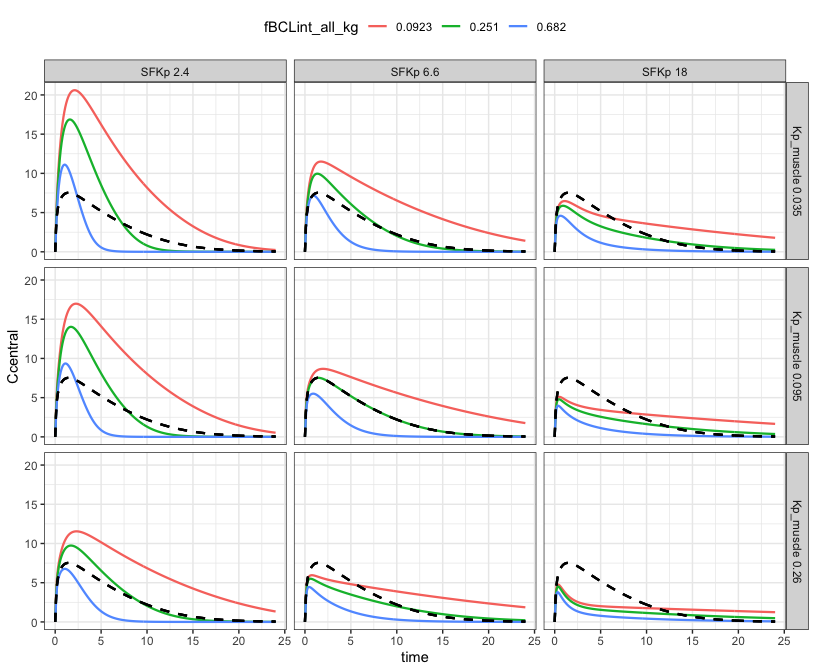
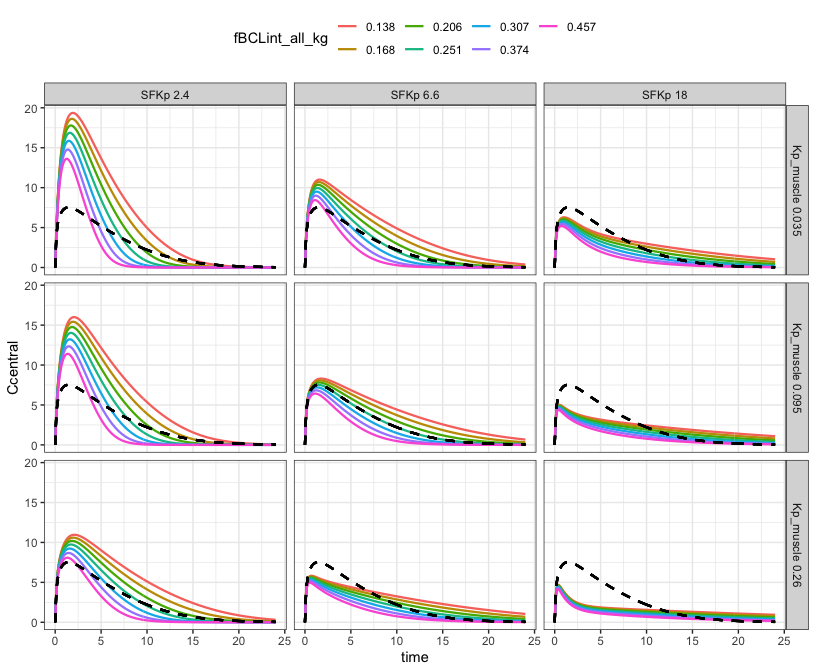
increase n in readme

diff --git a/README.md b/README.md
@@ -125,11 +125,10 @@ We use `parseq_cv` here, which generates lower and upper bounds for the
 range using 50% coefficient of variation.
 
 ``` r
-library(ggplot2)
-
 mod %>% 
   ev(amt = 600) %>% 
-  parseq_cv(fBCLint_all_kg, SFKp, Kp_muscle, .n = 3, .cv = 50) %>% 
+  parseq_cv(fBCLint_all_kg, .n = 7) %>% 
+  parseq_cv(SFKp, Kp_muscle, .n = 3, .cv = 50) %>% 
   sens_grid() %>% 
   sens_plot("Ccentral")
 ```
